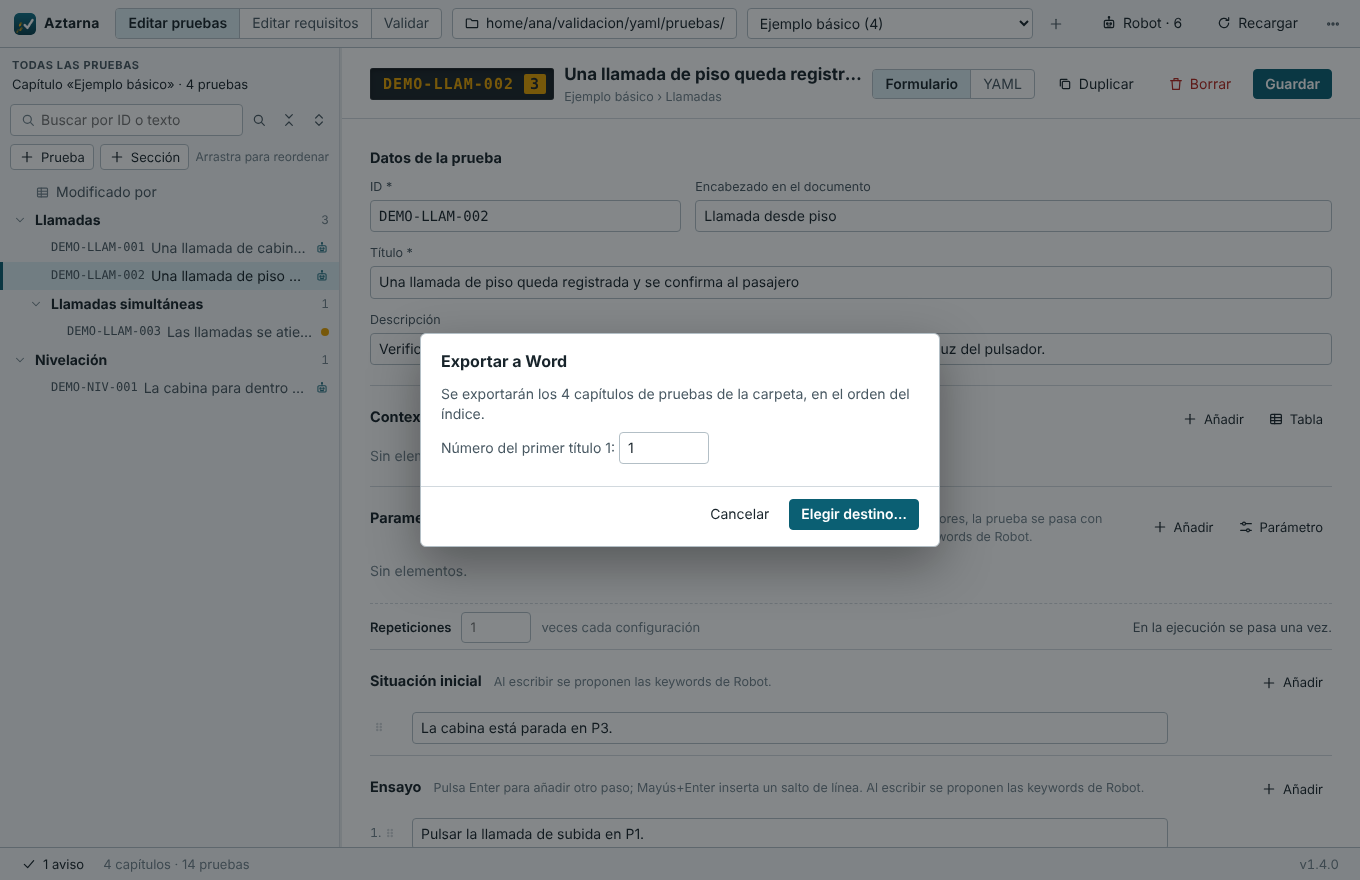
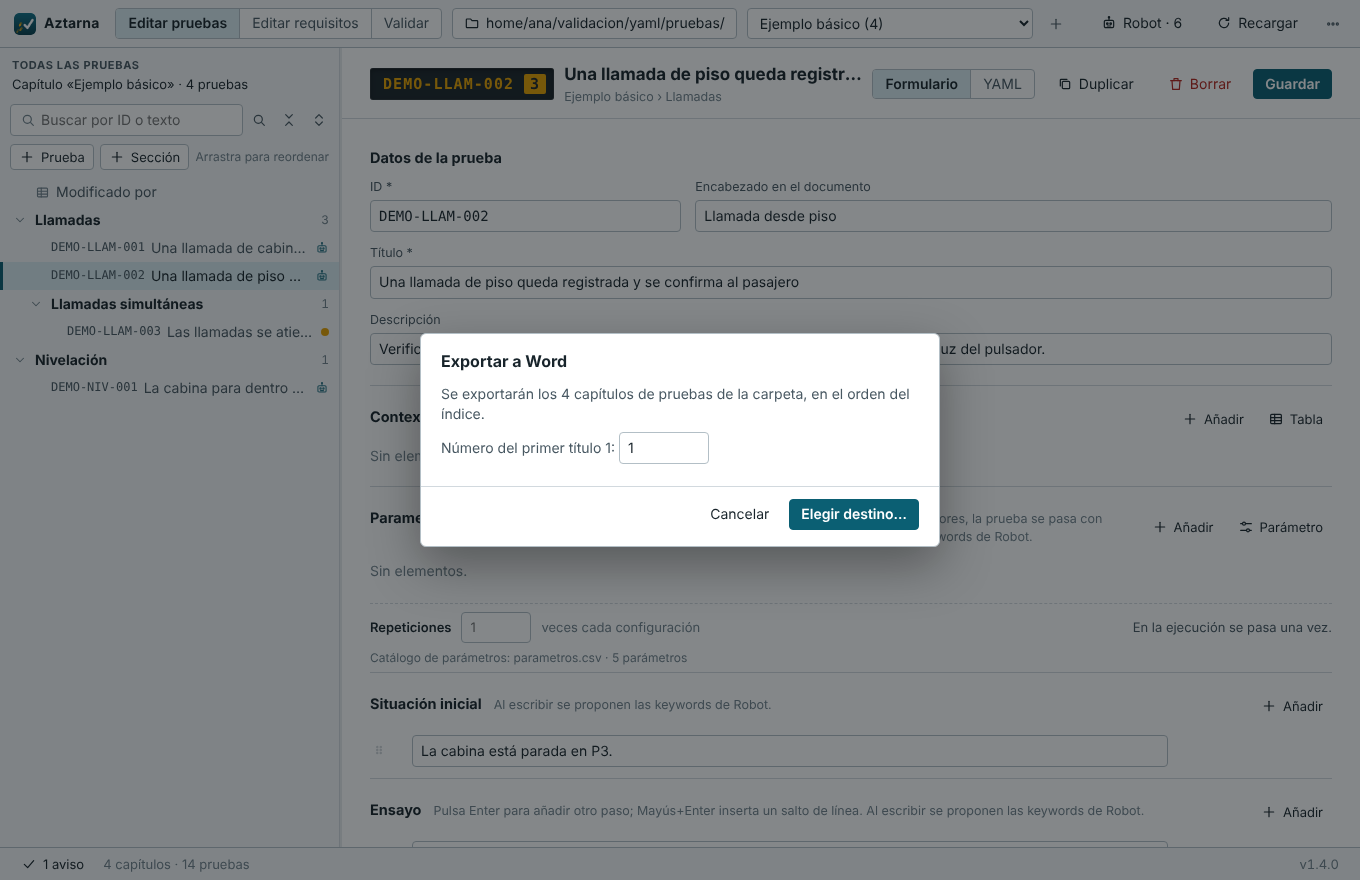
Catálogo de parámetros: leer la hoja con la columna Parámetro y ver qué se ha cargado
Del Excel se lee la hoja que tenga la columna «Parámetro» (antes, siempre
la primera), entera aunque guarde mal su tamaño, y los números como se
escriben (4, 0,5). Un .xls da un error que dice qué hacer. Qué aztarna.yaml
y qué catálogo usa el proyecto (cuántos parámetros o el error) se ve debajo
de la parametrización y en Ajustes; pregunta frecuente en el manual.

Claude-Session: https://claude.ai/code/session_01J8Tj4AQ5BQ3LtPFJNhaWze

diff --git a/web/js/menu.js b/web/js/menu.js
@@ -181,7 +181,8 @@ async function abrirAjustes() {
     campo("aj-versiones", "Carpeta con la última versión del programa", AJUSTES.carpeta_versiones, { ejemplo: "\\\\servidor\\pruebas\\programa",
       texto: "Donde se publican Aztarna.exe y version.txt. Al abrir el editor, avisa si allí hay una versión más nueva que la tuya." }, elegir),
     campo("aj-incidencias", "Dirección de las incidencias", AJUSTES.url_incidencias, { ejemplo: "https://jira.empresa.com/browse/{id}",
-      texto: "Con {id} donde va el número. Las incidencias (BUG-123…) de los resultados se abren con un clic." }));
+      texto: "Con {id} donde va el número. Las incidencias (BUG-123…) de los resultados se abren con un clic." }),
+    await configuracionDelProyecto());
   const r = await dialogo({ titulo: "Ajustes de este PC", cuerpo, ancho: true,
     botones: [{ texto: "Cancelar", valor: "", tipo: "ghost" }, { texto: "Guardar", valor: "si", tipo: "primary" }] });
   if (r !== "si") return;
@@ -195,6 +196,27 @@ async function abrirAjustes() {
     aviso("Ajustes guardados", "ok");
     comprobarVersion();
   } catch (e) { fallo(e); }
+}
+
+/** En Ajustes: qué aztarna.yaml y qué catálogo de parámetros usa el proyecto abierto (solo para ver; se cambian en el aztarna.yaml). */
+async function configuracionDelProyecto() {
+  if (!S.carpeta) return null;
+  let a;
+  try { a = await ayudaParametros(true); } catch (_e) { return null; }
+  const ruta = (texto, archivo) => h("div", { class: "fila-config" },
+    h("span", { class: "ruta-config", text: texto, title: archivo || "" }),
+    archivo ? h("button", { type: "button", class: "btn peq", text: "Mostrar", onclick: () => api.mostrar_en_carpeta(archivo).catch(fallo) }) : null);
+  const estado = a.error
+    ? h("span", { class: "estado-catalogo con-error", text: a.error })
+    : a.archivo ? h("span", { class: "ayuda", text: `Cargado: ${plural(a.catalogo.length, "parámetro", "parámetros")}. El editor los propone al escribir la parametrización.` })
+      : h("span", { class: "ayuda", text: a.configuracion
+        ? "Sin catálogo: añade «parametros: archivo.xlsx» (o .csv, con la ruta relativa al aztarna.yaml) y pulsa Recargar."
+        : "El proyecto no tiene aztarna.yaml: créalo en su carpeta (junto a pruebas/) con «parametros: archivo.xlsx»." });
+  return h("div", { class: "campo completo config-proyecto" },
+    h("label", { text: "Del proyecto abierto (se cambia en su aztarna.yaml)" }),
+    ruta(a.configuracion ? `aztarna.yaml: ${a.configuracion}` : "aztarna.yaml: no tiene", a.configuracion),
+    ruta(a.archivo ? `Catálogo de parámetros: ${a.archivo}` : "Catálogo de parámetros: ninguno", a.archivo && !a.error ? a.archivo : null),
+    estado);
 }
 
 /* ---- versión nueva publicada ---- */

diff --git a/web/js/form.js b/web/js/form.js
@@ -621,7 +621,13 @@ function editorLista(clave, titulo, { numerada = false, ayuda = "", conTablas = 
   pintar();
   // Con el catálogo ya cargado, las notas de los parámetros (ubicación, descripción) se completan.
   const formulario = F;
-  if (conParametros) ayudaParametros(true).then(() => { if (F === formulario && !lista.contains(document.activeElement)) pintar(); });
+  if (conParametros) {
+    ayudaParametros(true).then(() => {
+      if (F !== formulario) return;
+      pie.pintarCatalogo();
+      if (!lista.contains(document.activeElement)) pintar();
+    });
+  }
   return bloque;
 }
 
@@ -745,10 +751,22 @@ function pieParametrizacion() {
     const partes = [variables.length ? plural(configs, "configuración", "configuraciones") : "", rep > 1 ? plural(rep, "repetición", "repeticiones") : ""].filter(Boolean);
     resumen.textContent = total > 1 ? `En la ejecución: ${plural(total, "pasada", "pasadas")} (${partes.join(" × ")}), cada una con su resultado.` : "En la ejecución se pasa una vez.";
   }
+  const catalogo = h("div", { class: "estado-catalogo" });
   const pie = h("div", { class: "pie-parametrizacion" },
     h("label", { for: "f-repeticiones", text: "Repeticiones" }), entrada,
-    h("span", { class: "muted", text: "veces cada configuración" }), resumen);
+    h("span", { class: "muted", text: "veces cada configuración" }), resumen, catalogo);
   pie.actualizar = actualizar;
+  /** Qué catálogo de parámetros se usa (o por qué no se puede usar), para que se vea sin abrir el panel de problemas. */
+  pie.pintarCatalogo = () => {
+    const a = AYUDA_PARAMETROS;
+    const nombre = a.archivo ? a.archivo.split(/[\\/]/).pop() : "";
+    catalogo.className = "estado-catalogo" + (a.error ? " con-error" : "");
+    catalogo.replaceChildren(a.error ? h("span", { text: `Catálogo de parámetros: ${a.error}` })
+      : a.archivo ? h("span", { title: a.archivo, text: `Catálogo de parámetros: ${nombre} · ${plural(a.catalogo.length, "parámetro", "parámetros")}` })
+        : h("span", { title: a.configuracion || "", text: a.configuracion
+          ? "Sin catálogo de parámetros: añade «parametros: archivo.xlsx» al aztarna.yaml del proyecto y pulsa Recargar."
+          : "Sin catálogo de parámetros: el proyecto no tiene aztarna.yaml (ver el manual, 4.3)." }));
+  };
   return pie;
 }
 

diff --git a/web/css/app.css b/web/css/app.css
@@ -1109,3 +1109,9 @@ dialog.buscar-global input[type=search] { width: 100%; font-size: 15px; padding:
 .nombre-parametro .sugerencias-fichas { min-width: min(480px, 80vw); }
 .nombre-parametro .sugerencias-fichas .opcion > span:first-child { white-space: nowrap; }
 .nombre-parametro .sugerencias-fichas .usos { overflow: hidden; text-overflow: ellipsis; }
+.estado-catalogo { flex-basis: 100%; font-size: 12px; color: var(--ink-3); }
+.estado-catalogo.con-error { color: var(--warn); font-weight: 600; }
+/* Ajustes: configuración del proyecto abierto */
+.config-proyecto { border-top: 1px solid var(--rule); padding-top: 10px; margin-top: 4px; }
+.fila-config { display: flex; align-items: center; gap: 8px; font-size: 13px; }
+.ruta-config { flex: 1; min-width: 0; overflow: hidden; text-overflow: ellipsis; white-space: nowrap; font-family: var(--mono); font-size: 12px; color: var(--ink-2); }

diff --git a/app/parametros.py b/app/parametros.py
@@ -225,16 +225,38 @@ def clave_nombre(texto: Any) -> str:
     return re.sub(r"[\W_]+", "", sin).lower()
 
 
+def _texto_celda(valor: Any) -> str:
+    """Una celda de Excel como se ve: 4 y no 4.0, 0,5 y no 0.5."""
+    if valor is None:
+        return ""
+    if isinstance(valor, bool):
+        return "Sí" if valor else "No"
+    if isinstance(valor, float):
+        return (str(int(valor)) if valor.is_integer() else f"{valor:g}").replace(".", ",")
+    return str(valor).strip()
+
+
+def _tiene_cabecera(filas: list[list[str]]) -> bool:
+    return any(clave_nombre(c) in COLUMNAS["parametro"] for fila in filas for c in fila)
+
+
 def _filas(ruta: Path) -> list[list[str]]:
     if ruta.suffix.lower() in (".xlsx", ".xlsm"):
         from openpyxl import load_workbook
 
         libro = load_workbook(ruta, read_only=True, data_only=True)
         try:
-            hoja = libro.worksheets[0]
-            return [["" if c is None else str(c).strip() for c in fila] for fila in hoja.iter_rows(values_only=True)]
+            hojas = []
+            for hoja in libro.worksheets:
+                if hasattr(hoja, "reset_dimensions"):
+                    hoja.reset_dimensions()      # algunos programas guardan mal el tamaño de la hoja
+                hojas.append([[_texto_celda(c) for c in fila] for fila in hoja.iter_rows(values_only=True)])
         finally:
             libro.close()
+        # La hoja con una columna «Parámetro»; si ninguna la tiene, la primera.
+        return next((h for h in hojas if _tiene_cabecera(h)), hojas[0] if hojas else [])
+    if ruta.suffix.lower() == ".xls":
+        raise ValueError(f"{ruta.name}: es un Excel antiguo (.xls); guárdalo como .xlsx o como CSV.")
     if ruta.suffix.lower() in (".csv", ".txt"):
         texto = ruta.read_text(encoding="utf-8-sig")
         try:

diff --git a/tests/test_parametros.py b/tests/test_parametros.py
@@ -104,6 +104,25 @@ class CatalogoTests(unittest.TestCase):
                          [{"parametro": "Número de paradas", "ubicacion": "Instalación", "descripcion": "",
                            "valores": ["4", "8"], "unidad": "", "otros": []}])
 
+    def test_excel_en_otra_hoja_y_con_numeros(self):
+        libro = Workbook()
+        libro.active.title = "Portada"
+        libro.active.append(["Catálogo del configurador DEMO-A1"])
+        hoja = libro.create_sheet("Parámetros")
+        hoja.append(["Parámetro", "Valores", "Valor por defecto", "Activo"])
+        hoja.append(["Velocidad nominal", "0,5; 1,0", 1.0, True])
+        hoja.append(["Número de paradas", 8, 0.5, None])
+        libro.save(self.tmp / "hojas.xlsx")
+        catalogo = parametros.leer_catalogo(self.tmp / "hojas.xlsx")
+        self.assertEqual([(p["parametro"], p["valores"], p["otros"]) for p in catalogo],
+                         [("Velocidad nominal", ["0,5", "1,0"], [["Valor por defecto", "1"], ["Activo", "Sí"]]),
+                          ("Número de paradas", ["8"], [["Valor por defecto", "0,5"]])])
+
+    def test_excel_antiguo(self):
+        (self.tmp / "viejo.xls").write_bytes(b"\xd0\xcf")
+        with self.assertRaisesRegex(ValueError, "guárdalo como .xlsx"):
+            parametros.leer_catalogo(self.tmp / "viejo.xls")
+
     def test_otras_columnas_se_conservan_tal_cual(self):
         (self.tmp / "c.csv").write_text("Nombre en el configurador;Parámetro;Valor por defecto;Módulo\n"
                                         "Vnom;Velocidad nominal;1,0;\n", encoding="utf-8")

diff --git a/app/editor_api.py b/app/editor_api.py
@@ -993,6 +993,7 @@ class EditorApi:
         return {
             "catalogo": catalogo,
             "archivo": str(esquema.CATALOGO_PARAMETROS) if esquema.CATALOGO_PARAMETROS else None,
+            "configuracion": str(esquema.CONFIGURACION) if esquema.CONFIGURACION else None,
             "error": error,
             "usados": sorted(usados.values(), key=lambda u: (-u["usos"], u["parametro"].lower())),
         }

diff --git a/MANUAL.md b/MANUAL.md
@@ -323,6 +323,10 @@ prueba el panel del resultado se pone encima de la prueba.
   Redmine…) con `{id}` donde va el número, por ejemplo
   `https://jira.empresa.com/browse/{id}`. Así las incidencias de los
   resultados (`BUG-123`) se abren con un clic.
+- **Del proyecto abierto** (solo para ver): qué `aztarna.yaml` usa y qué
+  catálogo de parámetros ha cargado (cuántos parámetros o, si no ha podido,
+  por qué), con **Mostrar** para abrir su carpeta. Se cambian en el
+  `aztarna.yaml` del proyecto.
 
 **Esperas.** Lo que tarda (abrir una validación grande, generar un informe,
 importar) muestra una ruleta con el tiempo que lleva. Si una espera pasa de
@@ -515,6 +519,11 @@ relativa a él, y va a Git con las pruebas:
 ```yaml
 parametros: parametros.xlsx
 ```
+
+Debajo de la parametrización (y en **⋯ → Ajustes**) se ve qué catálogo ha
+cargado y cuántos parámetros tiene, o por qué no ha podido. Del Excel se lee
+la hoja que tenga la columna *Parámetro* (si ninguna, la primera); un Excel
+antiguo (`.xls`) hay que guardarlo como `.xlsx` o CSV.
 
 El panel de problemas avisa de los parámetros que no están en el catálogo,
 de los valores que no admite, de los parámetros repetidos o sin valores y de
@@ -1494,6 +1503,21 @@ el aviso dice si queda en la carpeta un guardado interrumpido (`….tmp`) que
 pueda tener la última versión; si no, restáurala de una copia de seguridad (en
 Windows, botón derecho sobre el archivo → «Restaurar versiones anteriores»).
 Las evidencias no se ven afectadas.
+
+**No se carga el catálogo de parámetros.**
+Mira en **⋯ → Ajustes** (o debajo de la parametrización de una prueba) qué
+`aztarna.yaml` usa el proyecto y qué dice del catálogo:
+
+- *El proyecto no tiene aztarna.yaml*: créalo en la carpeta del proyecto
+  (junto a `pruebas/`) o, en una carpeta de pruebas suelta, dentro de ella.
+- *Sin catálogo*: añade `parametros: parametros.xlsx` a ese `aztarna.yaml`
+  (la ruta es relativa a él; una ruta de Windows va sin comillas o entre
+  comillas simples) y pulsa **Recargar**.
+- *No se encuentra…* o *falta…*: la ruta no es la del archivo, el Excel es
+  `.xls` o ninguna hoja tiene una fila de cabecera con *Parámetro*.
+
+Hace falta la versión 1.4.0 o posterior (**⋯ → Acerca de**): las anteriores
+no conocen la clave `parametros` y dan error al leer el `aztarna.yaml`.
 
 **La opción de PDF no está disponible.**
 Instala LibreOffice (o, en Windows, Microsoft Word). El documento de Word se

diff --git a/CHANGELOG.md b/CHANGELOG.md
@@ -14,7 +14,9 @@ cada versión publicada lleva su etiqueta de Git (`v0.8.0`…).
   repetirla o cambiar la configuración.
 - **Catálogo de parámetros**: un Excel o CSV del proyecto (clave `parametros`
   del `aztarna.yaml`) con los parámetros del configurador, dónde se tocan,
-  qué son y qué valores admiten. Solo la columna del parámetro es
+  qué son y qué valores admiten (del Excel, la hoja que tenga la columna
+  «Parámetro»). Qué catálogo se ha cargado, o por qué no, se ve debajo de la
+  parametrización y en **⋯ → Ajustes**. Solo la columna del parámetro es
   obligatoria; las demás van al gusto (las que no se reconocen se enseñan tal
   cual, como «Valor por defecto: 1,0»). El editor los propone al escribir (con su
   ubicación) y el panel de problemas avisa de los parámetros o valores que no
